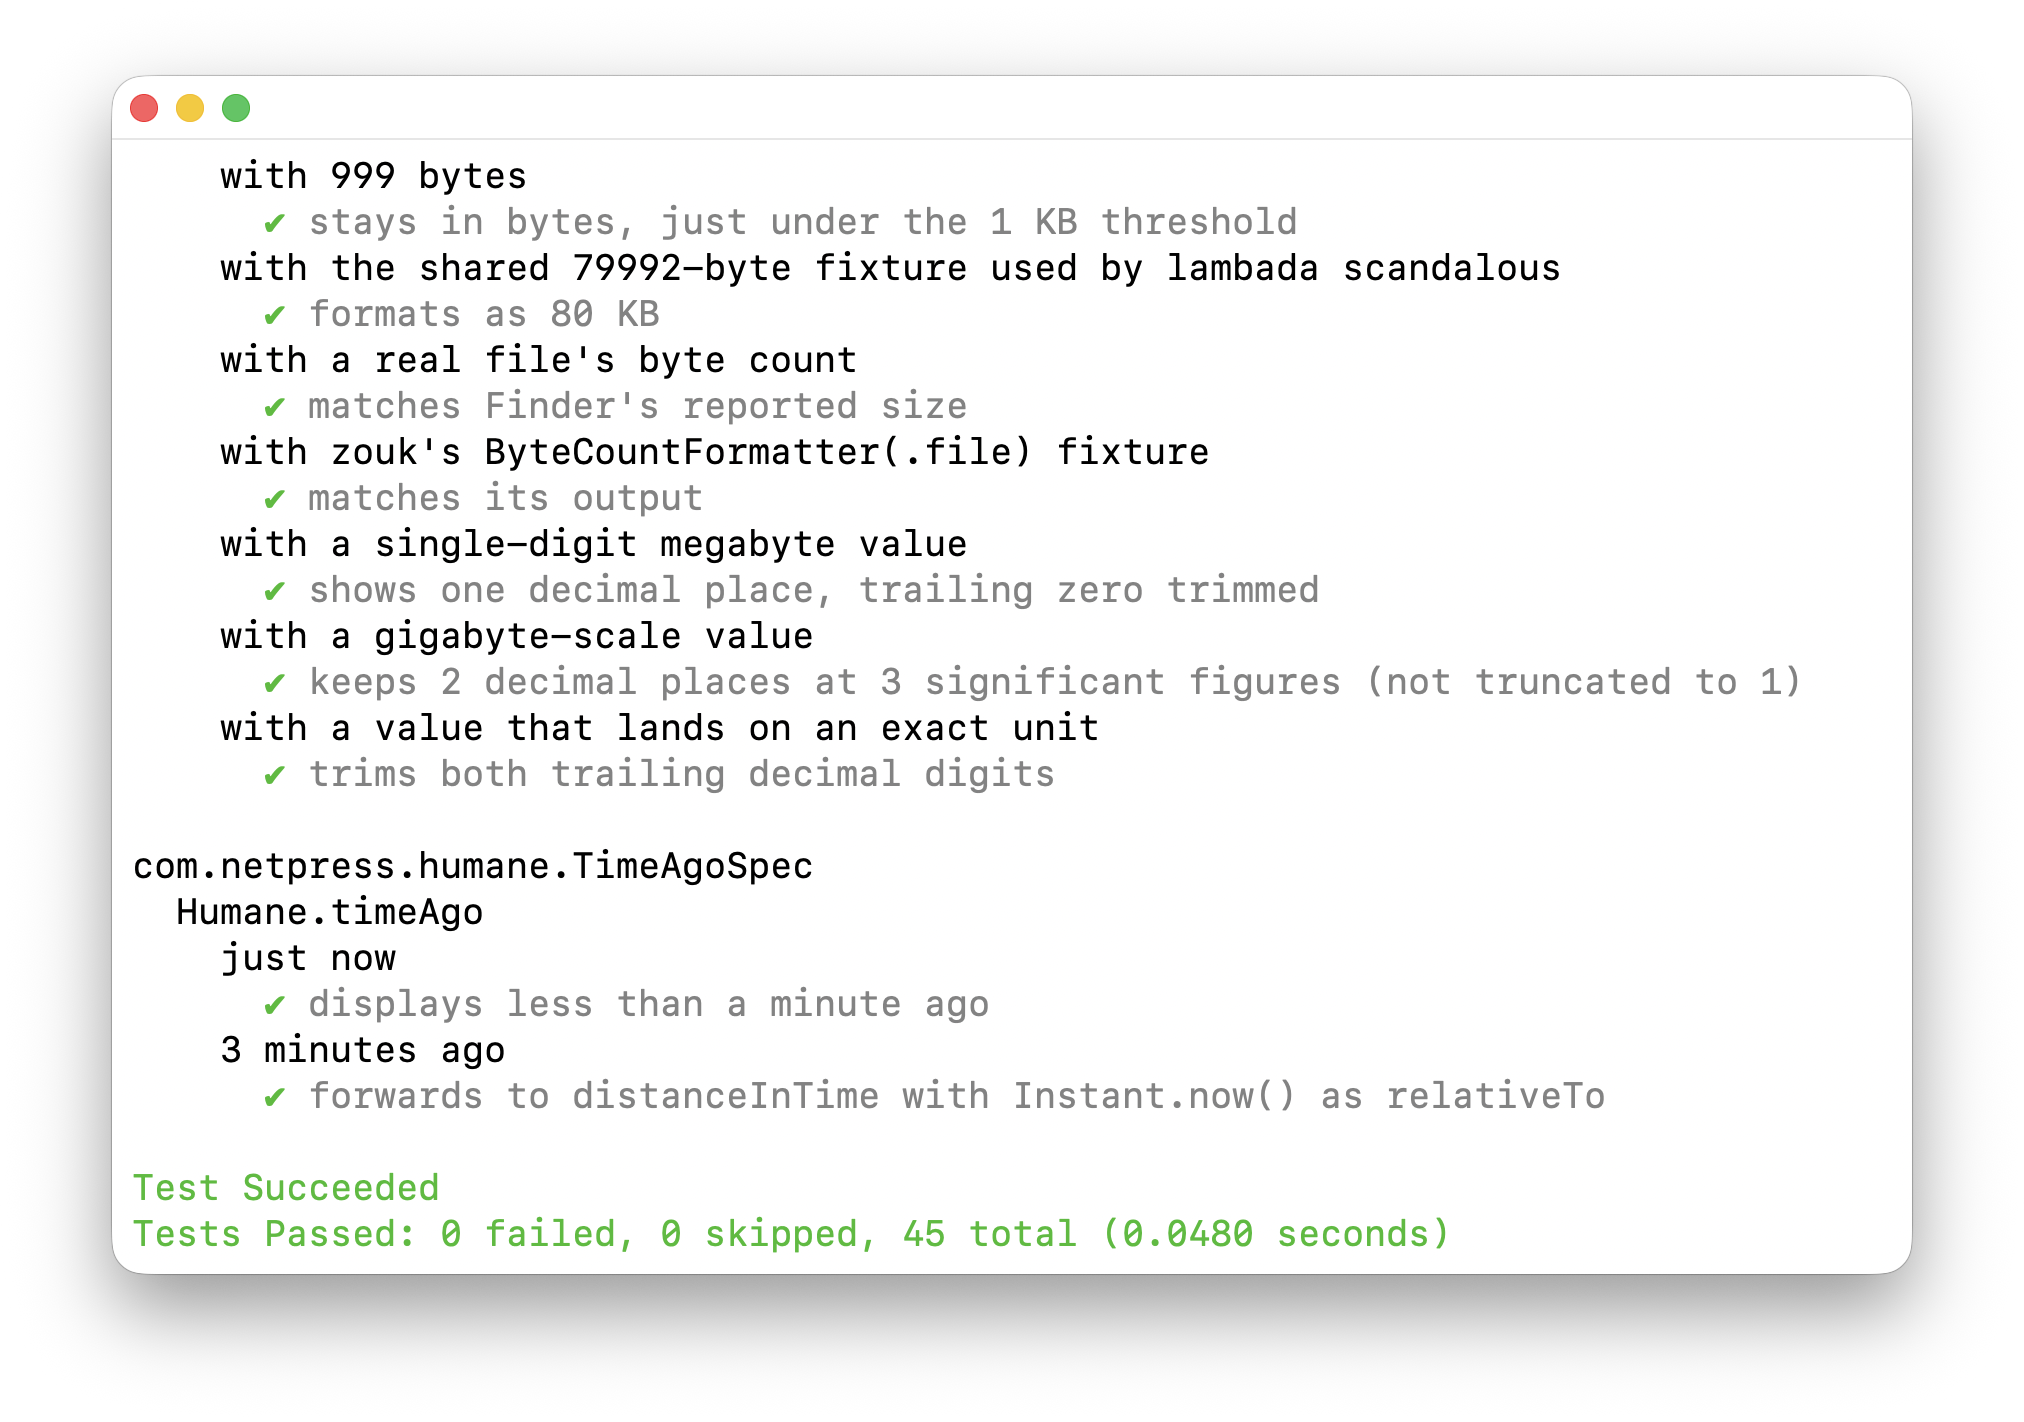
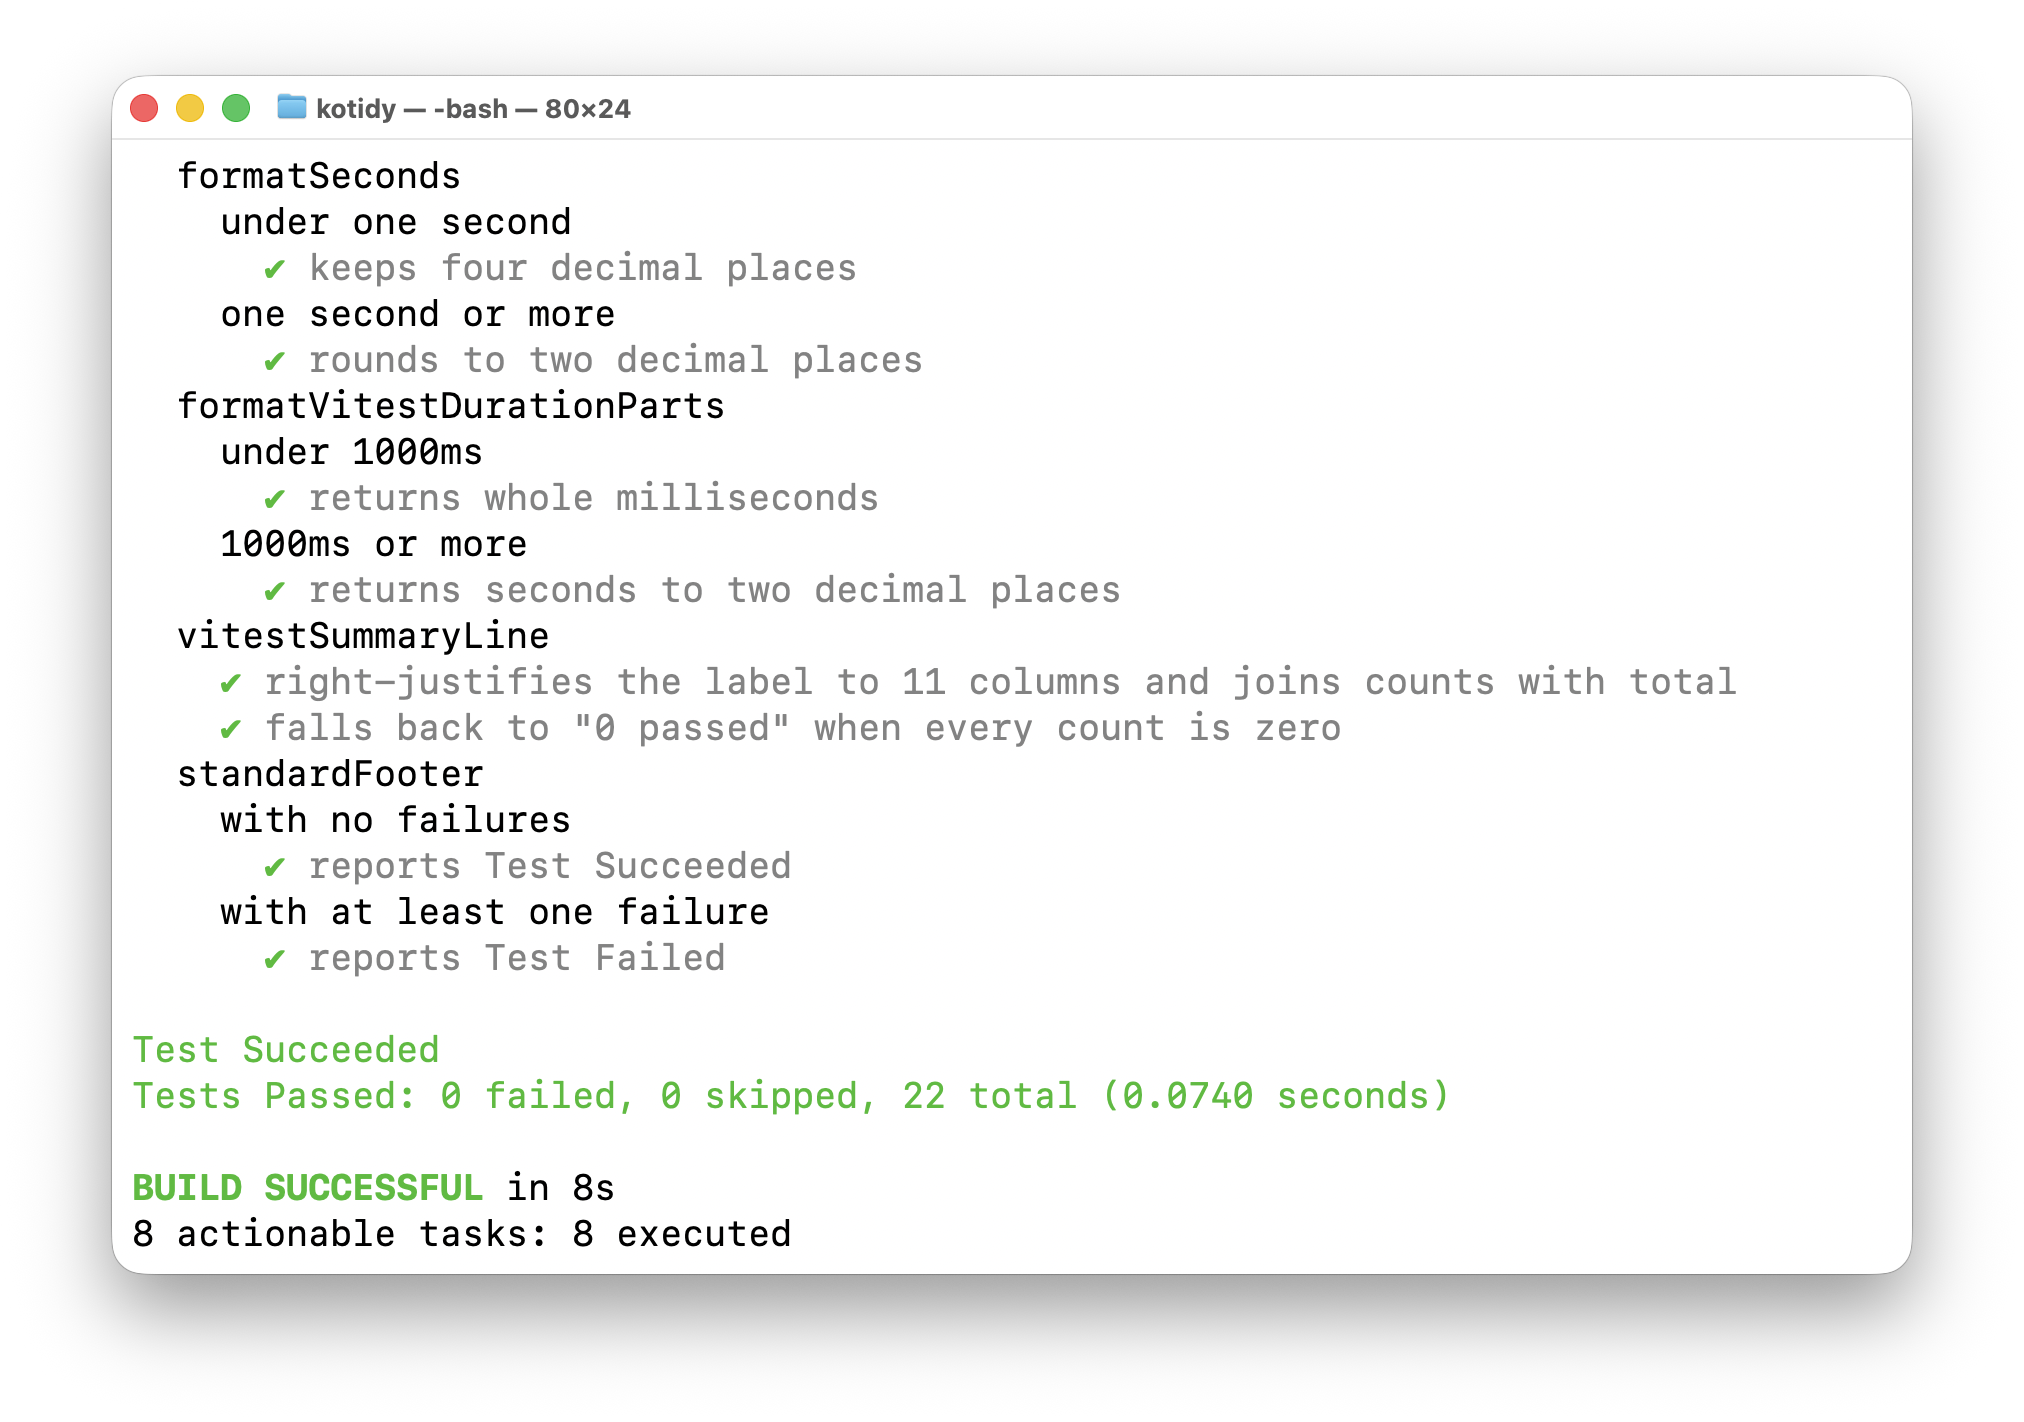
Add make dogfood: render kotidy's own suite through the Portal plugin
Applies the last-published com.netpress.kotidy v0.1.0 (from the Gradle
Plugin Portal) to kotidy's own build, gated behind -Pdogfood -- a
different, already-compiled artifact than this build's own in-progress
classes, so it carries none of the chicken-and-egg problem that's kept
kotidy from applying itself. Not wired into build/test/check since it
renders using whatever's last published, not local in-progress changes.

Also gates the plain testLogging {} block off under -Pdogfood --
confirmed on a real Mac that leaving it on doubled up with kotidy's own
TestListener, printing Gradle's flat one-liner and kotidy's nested tree
for the same test, interleaved.

docs/COWORK.md's old "Why kotidy doesn't dogfood itself" section is
rewritten (it can now, just conditionally); README's Limitations/
Development sections and docs/example.png updated to match -- the
screenshot is now kotidy's own Styles.kt specs rendering through
kotidy, not a borrowed humane-kotlin screenshot.

diff --git a/docs/COWORK.md b/docs/COWORK.md
@@ -126,22 +126,41 @@ from a real Mac (using the same key/secret, already in
 `~/.gradle/gradle.properties`); `v0.1.1` onward can rely on the tag push
 alone.
 
-## Why kotidy doesn't dogfood itself
+## Dogfooding kotidy against its own suite
 
 `gorderly`/`xctidy` both dogfood themselves against their own test suites
 (`make test` shells out to the compiled binary itself, formatting its own
-`go test`/`swift test` output in the same process). `kotidy` can't do the
-equivalent: it hooks Gradle's `TestListener` API directly rather than parsing
-text, which means applying it requires the plugin's own classes to already be
-compiled -- but `build.gradle.kts`'s `plugins {}` block resolves before this
-project's own `src/main/kotlin` is compiled, in the same build. There's no
-seam to apply `com.netpress.kotidy` to the build that produces
-`com.netpress.kotidy` itself. `Styles.kt` (the pure rendering logic, no
-Gradle API) is unit-tested directly instead; `KotidyPlugin.kt` (the
-`TestListener` wiring itself) isn't covered by an automated test here --
-verifying it means actually applying it in a consuming repo and reading real
-console output, which is what the three consumer repos' own `make test` runs
-now do.
+`go test`/`swift test` output in the same process). `kotidy` hooks Gradle's
+`TestListener` API directly rather than parsing text, so it can't apply
+*itself, mid-compile*, the same way -- `build.gradle.kts`'s `plugins {}`
+block resolves before this project's own `src/main/kotlin` is compiled, in
+the same build, so there's no seam to apply the classes currently being
+built to the build that's building them.
+
+That stopped being the whole story once `v0.1.0` was actually published to
+the Portal: applying the *already-published* `com.netpress.kotidy` to this
+same build is a completely separate, already-compiled artifact, with none of
+that chicken-and-egg problem -- exactly what `humane-kotlin`/`huck`/
+`next-caltrain-kotlin` already do to consume kotidy themselves. `make
+dogfood` (`./gradlew clean test -Pdogfood`) applies it conditionally,
+purely to capture a real `docs/example.png` of kotidy's own `Styles.kt`
+specs rendering through kotidy -- gated behind `-Pdogfood` rather than wired
+into `build`/`test`/`check`, since it renders using whatever the *last
+published* version does, not whatever's currently changed locally; letting
+regular `make test` quietly use stale rendering logic while a real change
+sits uncommitted would be misleading. `KotidyPlugin.kt`'s actual
+`TestListener` wiring is still ultimately verified end to end via a real
+consuming repo's own `make test`/CI, same as before -- `make dogfood`
+is for the screenshot, not a substitute for that.
+
+Also had to gate the plain `testLogging {}` block (further down in
+`build.gradle.kts`) behind `!project.hasProperty("dogfood")` -- without
+that, `make dogfood` produced Gradle's flat `ClassName > testName PASSED`
+lines *and* kotidy's own nested tree for the same test, interleaved, since
+both were firing on every test simultaneously. Confirmed clean afterward on
+a real Mac: `make dogfood` now shows only kotidy's own tree + footer, and
+`make test`/`build`/`check` are unaffected (`testLogging` still fires since
+`-Pdogfood` isn't set for those).
 
 ## Current status
 
@@ -165,8 +184,9 @@ existed because those were plain `val`s, not real `const val`s, so ktlint
 wanted to *lowercase* them instead).
 
 `make test` was also silent by design before a fix -- kotidy can't apply its
-own tree renderer to its own build (see "Why kotidy doesn't dogfood itself"
-above), and Gradle's default lifecycle logging prints nothing per test
+own tree renderer to its own build by default (see "Dogfooding kotidy
+against its own suite" above), and Gradle's default lifecycle logging
+prints nothing per test
 without `testLogging {}` configured, so the very first real `make test` run
 showed zero test output despite passing. Added `testLogging { events(...) }`
 to `build.gradle.kts` -- flat `ClassName > testName PASSED` lines now, not a

diff --git a/README.md b/README.md
@@ -108,17 +108,23 @@ for why.
 - `fv`'s per-leaf millisecond timing is only as precise as Gradle's own
   `TestResult` start/end timestamps -- sub-millisecond tests will round the
   same way `gorderly`'s own `-fv` timing does against `go test -v`'s output.
-- `kotidy` can't dogfood itself against its own test suite the way
-  `gorderly`/`xctidy` do (see `docs/COWORK.md`) -- its own `make test` output
-  uses Gradle's plain default renderer.
+- `make build`/`test`/`check` render kotidy's own suite with Gradle's plain
+  default output, not kotidy's own tree -- applying the plugin to its own
+  in-progress build isn't possible mid-compile. `make dogfood` applies
+  the last-published Portal version instead, just to capture
+  `docs/example.png` (see `docs/COWORK.md`, "Dogfooding kotidy against its
+  own suite").
 
 ## Development
 
 ```
-make build   # ./gradlew ktlintFormat && ./gradlew build -x test
-make test    # ./gradlew ktlintFormat && ./gradlew clean test
-make lint    # ./gradlew ktlintCheck
-make check   # ./gradlew ktlintFormat && ./gradlew clean check
+make build    # ./gradlew ktlintFormat && ./gradlew build -x test
+make test     # ./gradlew ktlintFormat && ./gradlew clean test
+make lint     # ./gradlew ktlintCheck
+make check    # ./gradlew ktlintFormat && ./gradlew clean check
+make dogfood  # ./gradlew clean test -Pdogfood -- renders this repo's own
+              # suite through the last-published Portal version, for
+              # docs/example.png only (see "Limitations" above)
 ```
 
 ## Consumed by